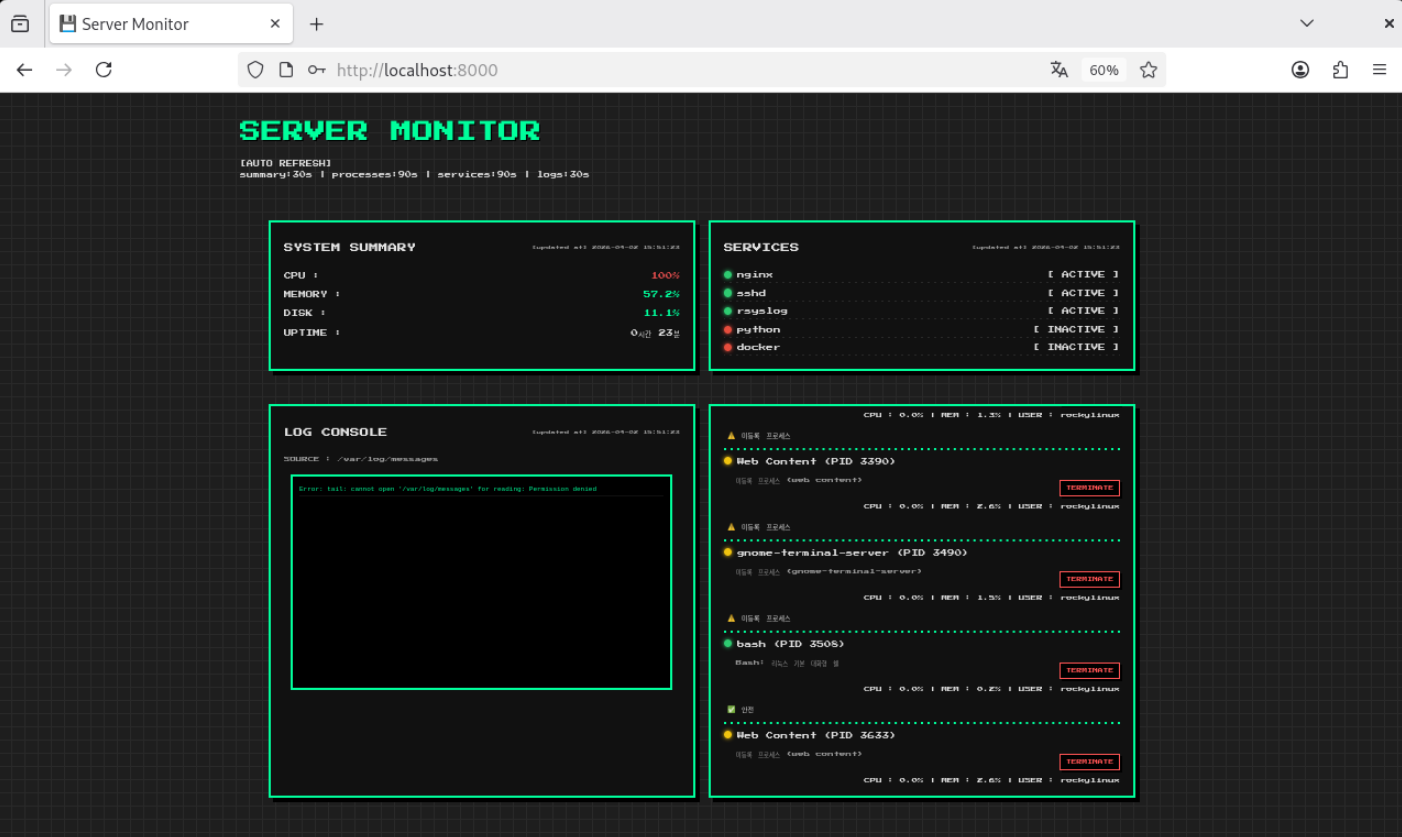
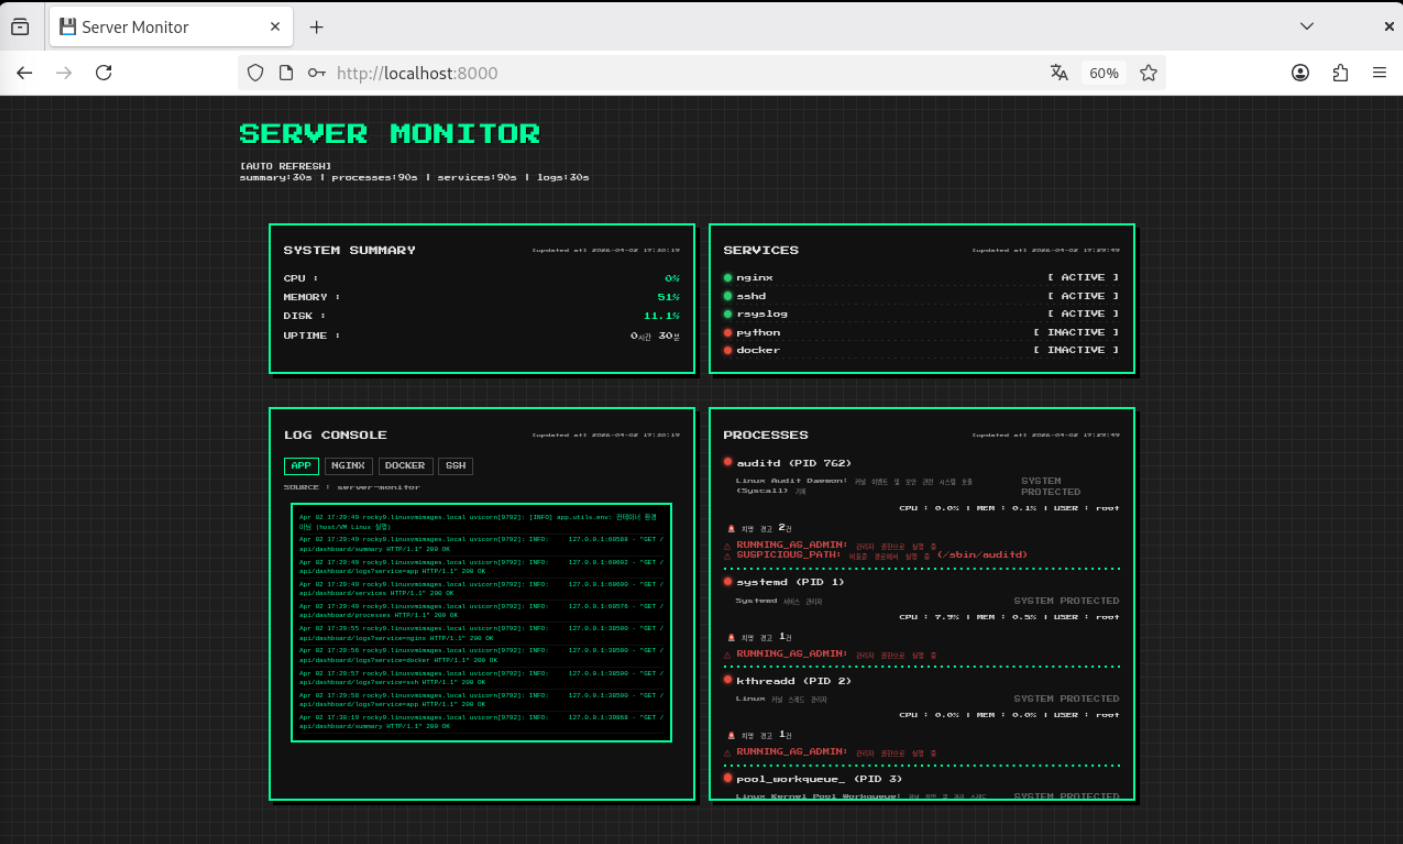
fix: 로그 수집 방식이 파일 tail에서 systemd journal 조회로 변경

diff --git a/docs/ANSIBLE_INFRA.md b/docs/ANSIBLE_INFRA.md
@@ -166,12 +166,12 @@ Ansible 실행
 - 운영자 수동 개입 최소화
 
 #### 운영 중 환경 위험 신호 감지
-- 수동으로 설치된 패키지 발견
-- 임의로 수정된 systemd 서비스 발견
-- 방화벽 포트가 문서와 불일치
-- venv 내부 라이브러리 버전 불일치
--  대응 전략
-  
+- 수동 설치된 패키지 존재 (Ansible 관리 대상 외)
+- systemd 서비스 설정 변경 감지 (Unit 파일 불일치)
+- 방화벽 포트 설정이 기준 문서와 불일치
+- Python venv 내부 라이브러리 버전 드리프트 발생
+
+####  대응 전략  
 | 선택지         | 판단   |
 | ----------- | ---- |
 | 수동 수정       | ❌ 금지 |
@@ -179,15 +179,16 @@ Ansible 실행
 | 서버 재생성      | ✅ 가능 |
 
 #### 서비스 실행 불능 (FastAPI / systemd)
-- systemd 서비스가 반복 실패
-- FastAPI 실행 경로 손상
-- venv 손상
-- psutil 빌드 오류
-- 대응 절차
-  1. FastAPI 로그 확인 (systemd)
-  2. 코드 자체 문제 여부 분리
-  3. Ansible server_monitor.yml 재적용
-  4. 실패 시 서버 재구성 여부 판단
+- systemd 서비스 상태가 반복적으로 failed
+- ExecStart 경로 또는 WorkingDirectory 오류
+- Python venv 손상 또는 의존성 불일치
+- psutil 빌드 실패 또는 런타임 오류
+
+#### 대응 절차
+1. `journalctl -u server-monitor` 로그 확인
+2. 애플리케이션 코드 문제 여부 분리
+3. Ansible `server_monitor.yml` 재적용
+4. 동일 문제 재발 시 서버 재구성 판단
 
 <br>
 

diff --git a/web/README.md b/web/README.md
@@ -88,7 +88,7 @@ web/
 │   │   │   ├── disk.py      # 디스크 사용량
 │   │   │   ├── uptime.py    # 서버 업타임
 │   │   │   ├── service.py   # 서비스 상태 (systemctl)
-│   │   │   ├── log.py       # 로그 tail 기능
+│   │   │   ├── log.py       # 로그 (journalctl)
 │   │   │   ├── process_control.py    # 프로세스 종료 로직
 │   │   │   └── process_analyzer.py   # 프로세스 분석
 │   ├── utils/
@@ -252,9 +252,11 @@ uvicorn app.main:app --reload
 2. 시스템 운영: rsyslog (로그 관리), docker (가상화 서비스)
 3. 실행 환경: python (백엔드 구동 환경)
 
-### 4. 로그 수집 (tail)
-- 대용량 로그 파일 전체를 읽지 않고, 파일 끝(EOF)에서부터 최근 10~20줄만 추출하는 tail 로직 구현
-- `/var/log` 접근 시 발생할 수 있는 **PermissionError**를 `try-except`로 처리하여 서버가 중단되지 않게 방어 코드 작성
+### 4. 로그 수집 (journalctl)
+- systemd journal을 사용하여 서비스 단위 로그를 조회 (`journalctl -u`)
+- 로그 전체를 읽지 않고 최근 N줄만 조회 (`-n` 옵션)로 I/O 비용 최소화
+- 파일 경로 접근 방식 제거 → 서비스 기반 조회 구조로 변경
+- 실행 사용자 권한 부족 시 발생하는 Permission denied를 처리하여 서버 중단 방지
 
 ### 5. 대시보드
 #### Jinja2 템플릿을 활용한 화면 분리

diff --git a/docs/NATIVE_RUN.md b/docs/NATIVE_RUN.md
@@ -199,6 +199,27 @@ journalctl -u server-monitor -n 100 --no-pager
 - root / non-root 실행 시 차이 확인
 - systemd 기반 서비스 로그 조회 (journalctl)
 
+#### journalctl 권한 검증 (중요)
+
+- FastAPI 서비스는 별도 사용자(server-monitor)로 실행됨
+- systemd journal 로그는 기본적으로 일반 사용자 접근 제한됨
+- journalctl 사용 시 permission denied 발생 가능
+
+```
+# 권한 부여
+sudo usermod -aG systemd-journal server-monitor
+sudo systemctl restart server-monitor
+
+# systemd-journal 그룹 포함 여부 확인
+id server-monitor
+
+# 실제 접근 테스트
+sudo -u server-monitor journalctl -u nginx -n 10 --no-pager
+sudo -u server-monitor journalctl -u server-monitor -n 10 --no-pager
+```
+- 정상 출력 시 애플리케이션에서도 로그 조회 가능
+- permission denied 발생 시 권한 미적용 상태
+
 #### 네트워크 및 포트 확인
 - firewall-cmd --list-ports로 서비스 포트 확인
   - 80/tcp (외부 허용)
@@ -407,8 +428,10 @@ systemctl is-active server-monitor
 
 ### 2. 로그 (log.py)
 - Linux 전용
-- 파일 직접 tail 방식
-- systemd / journalctl 미사용
+- systemd 기반 서비스 로그 조회 (`journalctl -u`)
+- 파일 직접 접근 방식 제거
+- 서비스 단위 로그 조회 구조로 변경 (app / nginx / docker / ssh)
+- 실행 사용자 권한에 따라 journal 접근 제한 발생 가능
 
 ### 3. 프로세스 (process.py)
 - psutil 기반 전수 수집

diff --git a/README.md b/README.md
@@ -63,9 +63,10 @@
 - 중지/에러: inactive, error → 🔴 빨간색 도트
 
 ### 3. 로그 모니터링
-- Linux 로그 파일 tail (최근 N줄)
+- systemd 기반 서비스 로그 조회 (`journalctl -u`)
+- 서비스 단위 로그 선택 조회 (app / nginx / docker / ssh)
+- 최근 N줄 기준 조회 (journalctl -n)
 - 콘솔 스타일 UI로 표시
-- 접근 권한 및 민감 정보 고려
 
 ### 4. 프로세스 분석 (운영·보안 핵심 기능)
 - 실행 중인 프로세스 목록
@@ -104,13 +105,13 @@
 ## 프로젝트 특징
 
 - psutil 기반 Cross Platform 설계
-- Linux 서비스(systemctl)와 로그 직접 연동
+- Linux 서비스(systemctl) 및 systemd journal 기반 로그 조회 연동
 - 단순 수치 → 의미 기반 상태 분석
-- Retro / Pixel 콘솔 UI로 서버 관리 감성 강화
-- FastAPI 기반 가벼운 모니터링 서버 
+- Retro / Pixel 콘솔 UI 기반 서버 모니터링
+- FastAPI 기반 경량 모니터링 서버
 - Ansible 기반 운영 환경 재현 및 자동 구성
 - Vault 기반 민감 정보 분리 관리
-- 운영 서버 기준 실전 구조
+- 운영 서버 기준 구조 및 실행 검증
 
 > 이 프로젝트는 단순한 모니터링 도구가 아니라    
 > 서버 운영 관점에서 "판단을 돕는 UI"를 목표로 한다.

diff --git a/infra/README.md b/infra/README.md
@@ -119,6 +119,9 @@ infra/ansible/
 cd infra/ansible/inventory/group_vars/all
 cp vault.yml.example vault.yml
 ansible-vault encrypt vault.yml
+
+# 비밀번호 변경 시 
+ansible-vault edit vault.yml
 ```
 - 이 작업은 Ansible을 실행하는 로컬(컨트롤 노드)에서 수행한다.
 - vault.yml은 MongoDB 관리자 비밀번호와 앱 계정 비밀번호를 저장한다.
